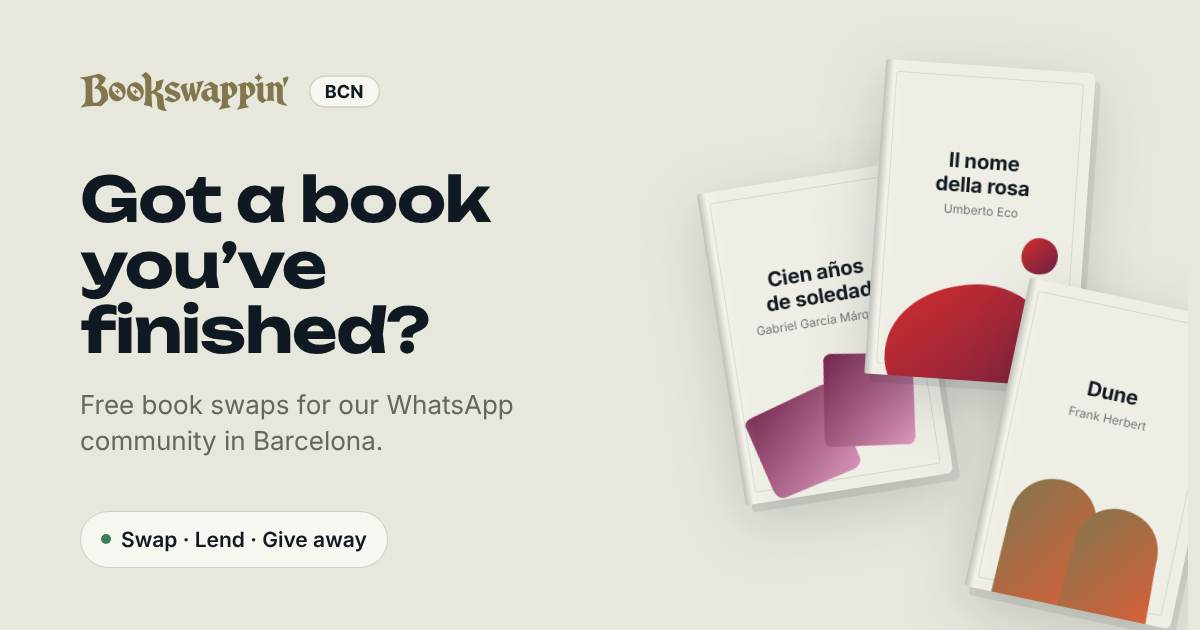
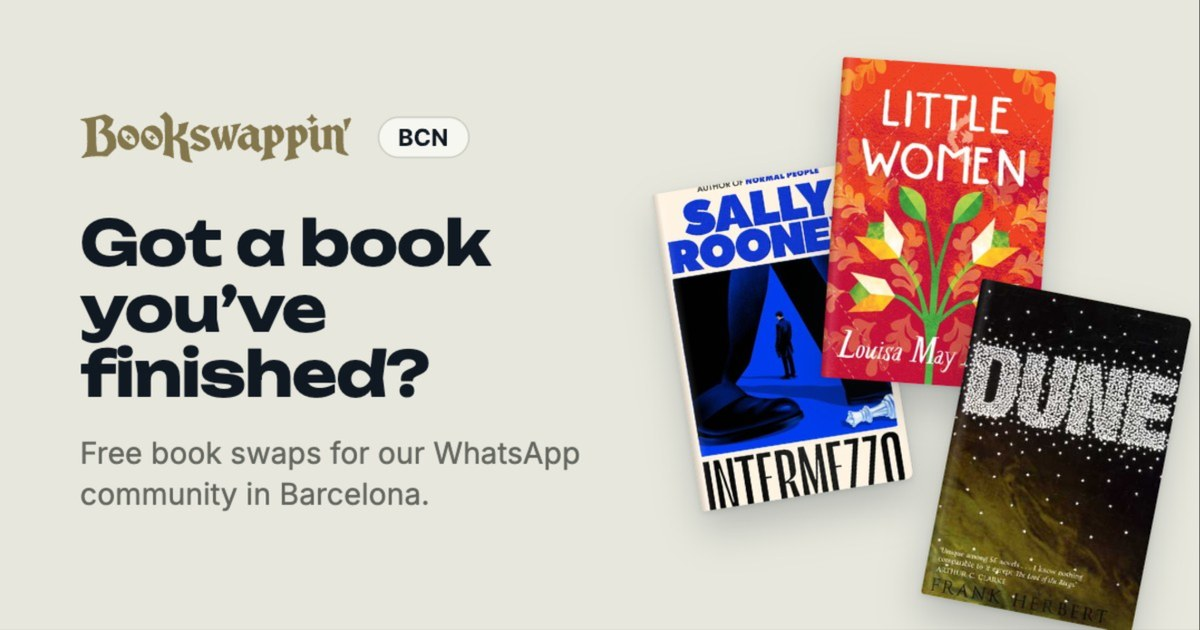
New share image with real book covers, share links use bookswappin.com

diff --git a/index.html b/index.html
@@ -10,14 +10,14 @@
 <meta property="og:site_name" content="Bookswappin’ BCN">
 <meta property="og:title" content="Bookswappin’ BCN">
 <meta property="og:description" content="Got a book you’ve finished? Free book swaps for our WhatsApp community in Barcelona.">
-<meta property="og:url" content="https://nolimetangere09.github.io/bookswappin/">
-<meta property="og:image" content="https://nolimetangere09.github.io/bookswappin/og-share.jpg">
+<meta property="og:url" content="https://bookswappin.com/">
+<meta property="og:image" content="https://bookswappin.com/og-share.jpg?v=2">
 <meta property="og:image:type" content="image/jpeg">
 <meta property="og:image:width" content="1200">
 <meta property="og:image:height" content="630">
 <meta property="og:image:alt" content="Bookswappin’ BCN: Got a book you’ve finished?">
 <meta name="twitter:card" content="summary_large_image">
-<meta name="twitter:image" content="https://nolimetangere09.github.io/bookswappin/og-share.jpg">
+<meta name="twitter:image" content="https://bookswappin.com/og-share.jpg?v=2">
 <link rel="icon" href="favicon.svg" type="image/svg+xml">
 <link rel="icon" href="icon-192.png" type="image/png">
 <link rel="apple-touch-icon" href="apple-touch-icon.png">
